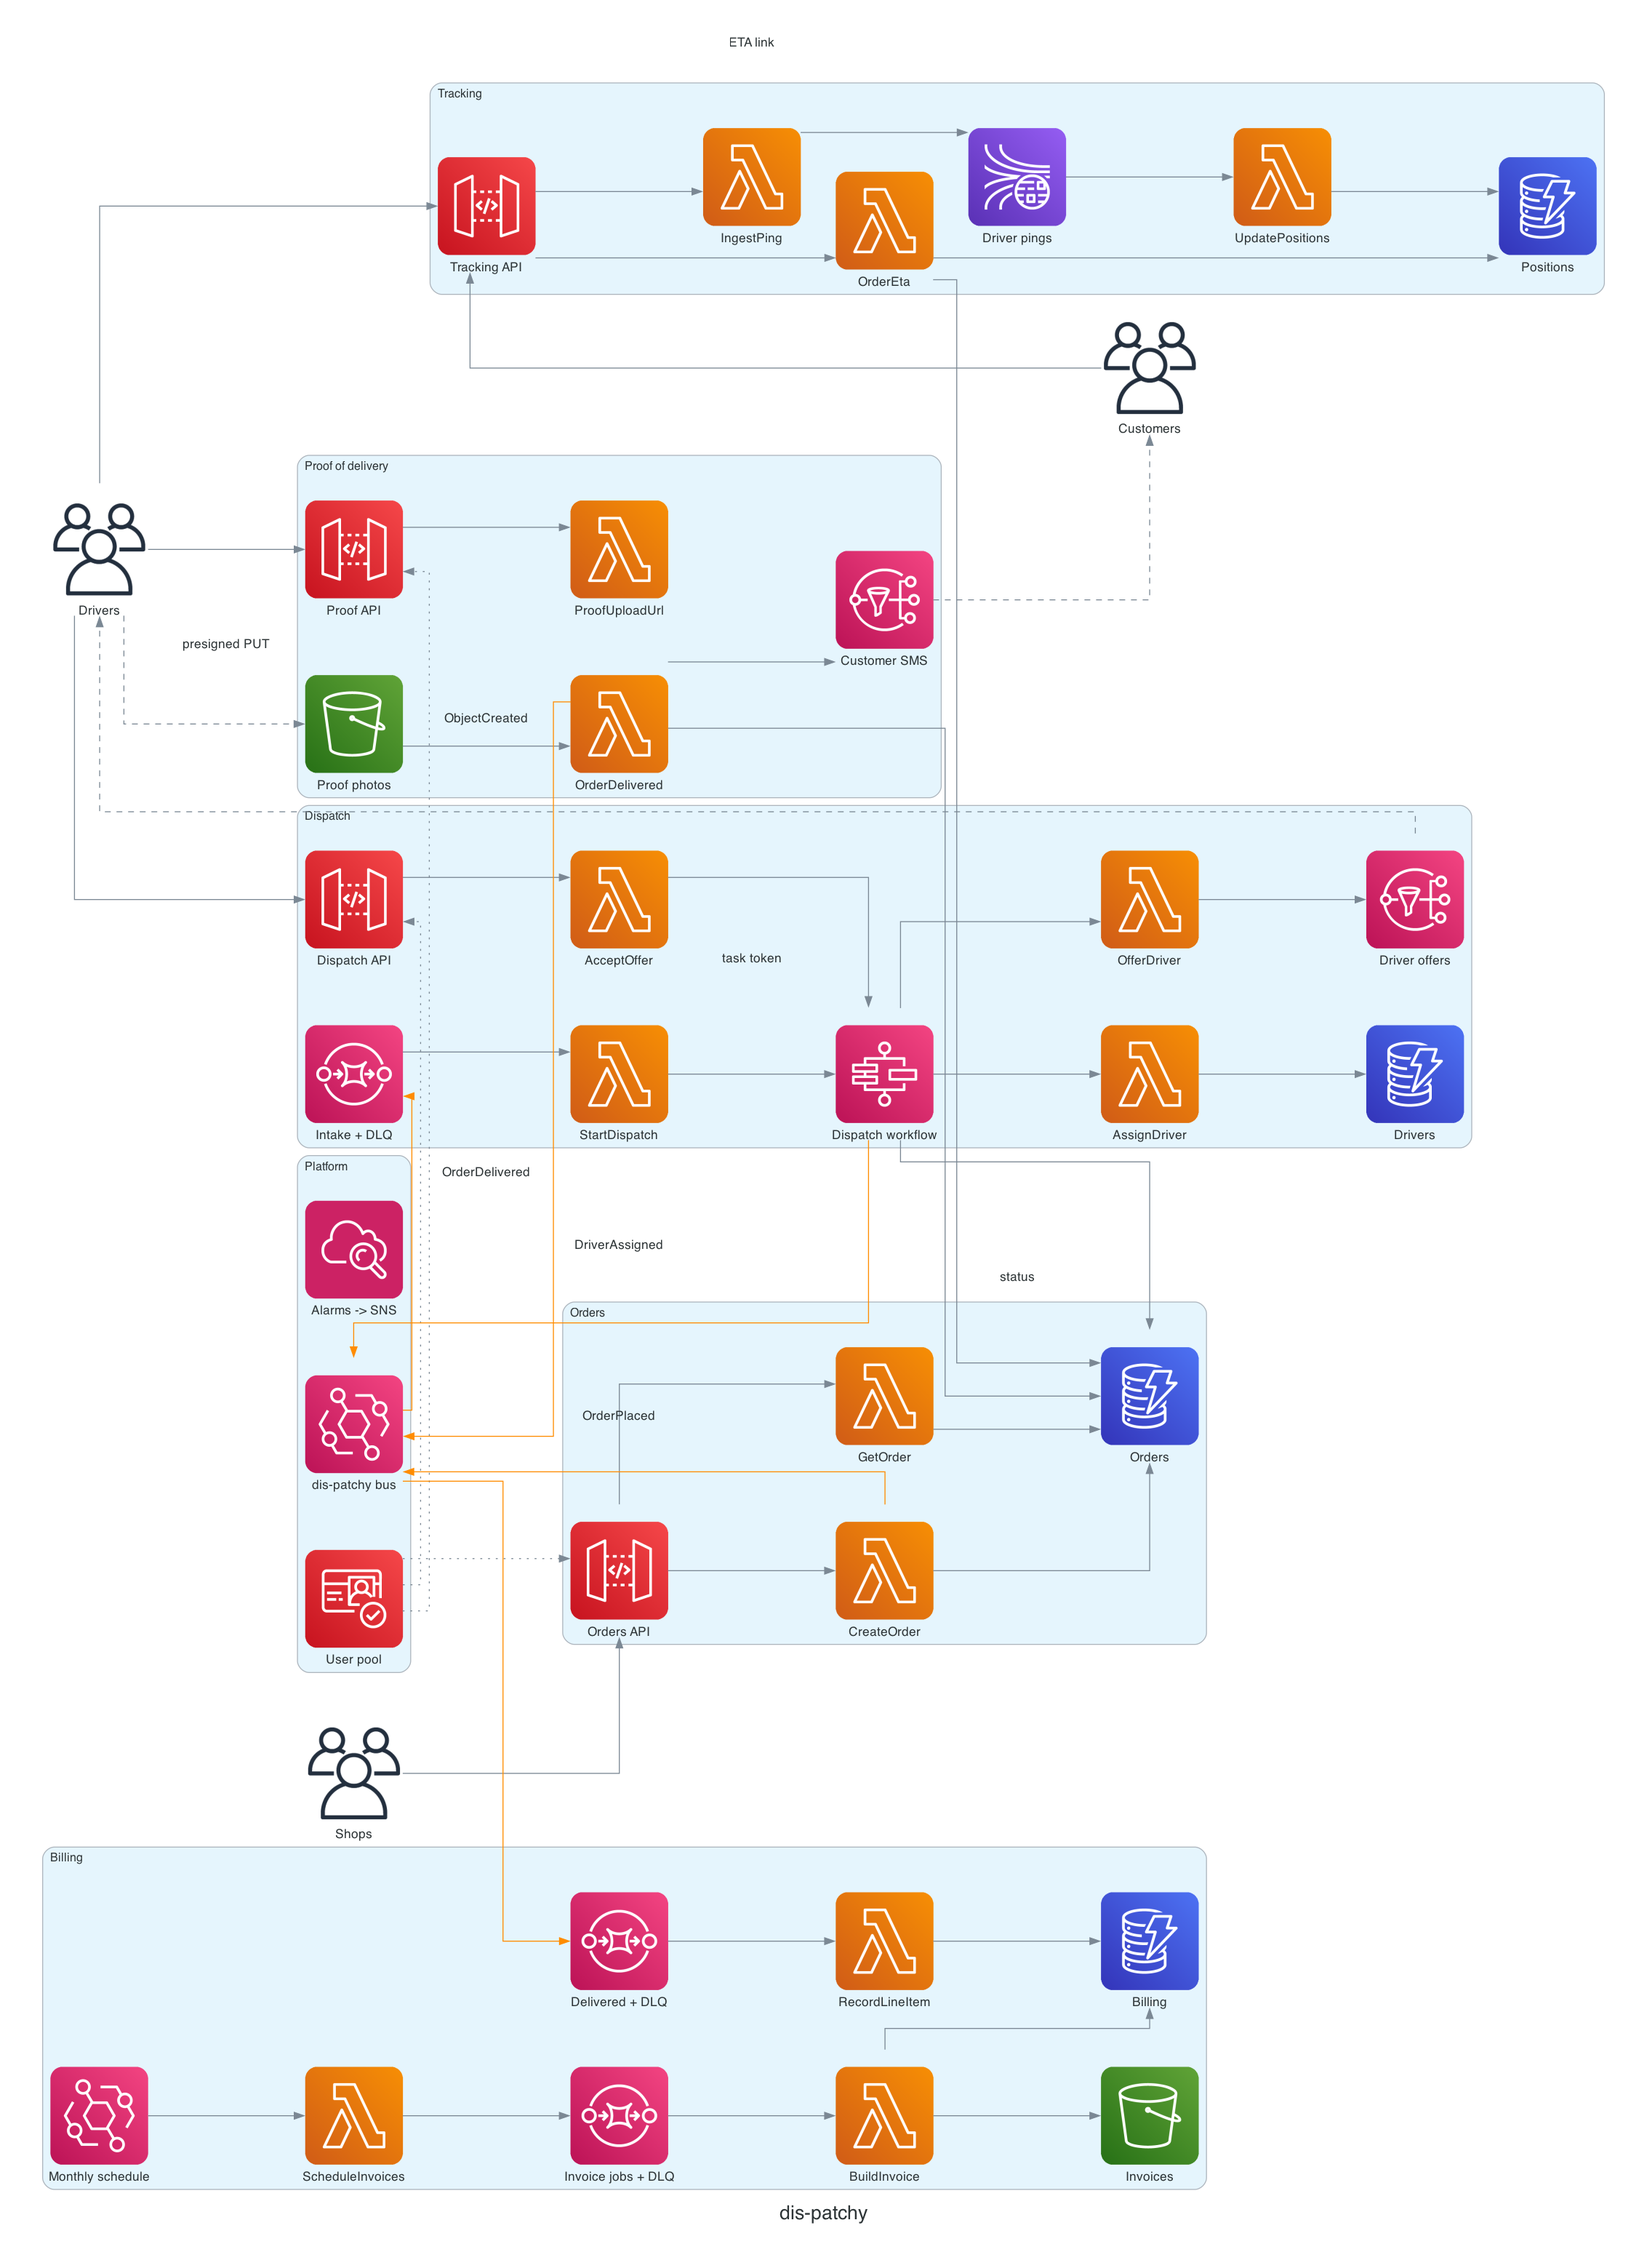
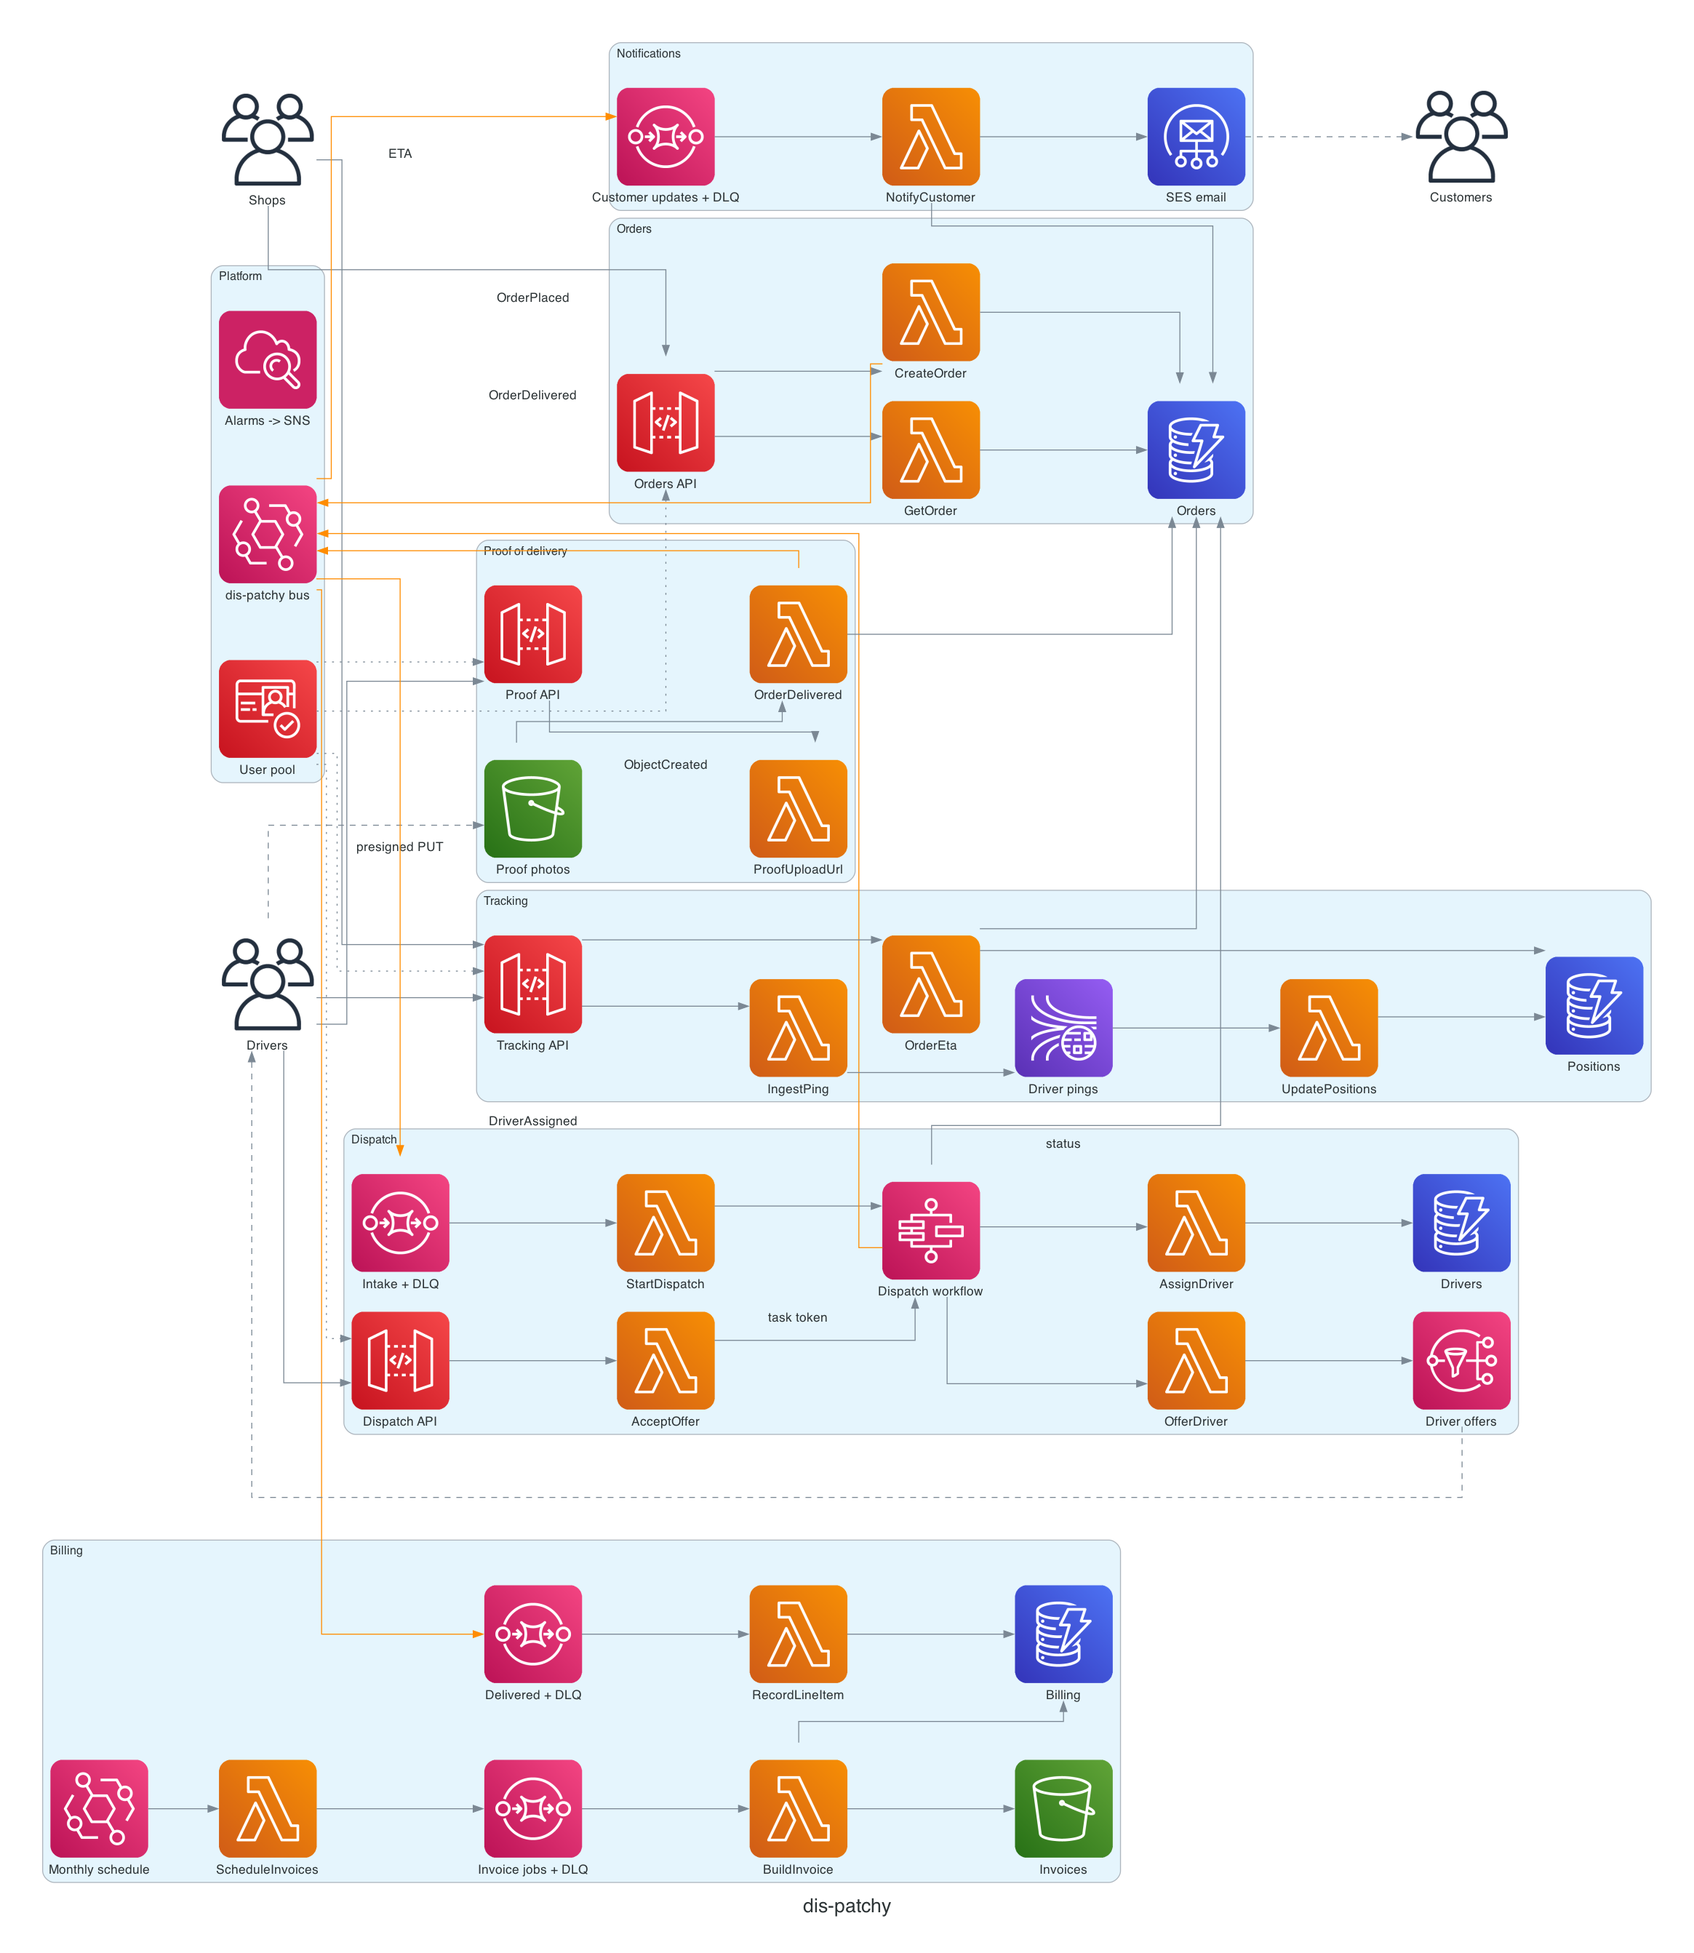
docs: update README and diagram for SES notifications

diff --git a/docs/architecture.py b/docs/architecture.py
@@ -8,6 +8,7 @@ from diagrams import Cluster, Diagram, Edge
 from diagrams.aws.analytics import KinesisDataStreams
 from diagrams.aws.compute import Lambda
 from diagrams.aws.database import Dynamodb
+from diagrams.aws.engagement import SimpleEmailServiceSes
 from diagrams.aws.integration import (
     Eventbridge,
     SimpleNotificationServiceSns,
@@ -76,9 +77,14 @@ with Diagram(
         upload = Lambda("ProofUploadUrl")
         photos = SimpleStorageServiceS3("Proof photos")
         delivered = Lambda("OrderDelivered")
-        sms = SimpleNotificationServiceSns("Customer SMS")
         proof_api >> upload
-        photos >> Edge(label="ObjectCreated") >> delivered >> sms
+        photos >> Edge(label="ObjectCreated") >> delivered
+
+    with Cluster("Notifications"):
+        updates_q = SimpleQueueServiceSqs("Customer updates + DLQ")
+        notifier = Lambda("NotifyCustomer")
+        ses = SimpleEmailServiceSes("SES email")
+        updates_q >> notifier >> ses
 
     with Cluster("Billing"):
         delivered_q = SimpleQueueServiceSqs("Delivered + DLQ")
@@ -95,15 +101,20 @@ with Diagram(
     shops >> orders_api
     (drivers >> Edge() >> [tracking_api, dispatch_api, proof_api])
     drivers >> Edge(style="dashed", label="presigned PUT") >> photos
-    customers >> Edge(label="ETA link") >> tracking_api
+    shops >> Edge(label="ETA") >> tracking_api
     offers_topic >> Edge(style="dashed") >> drivers
-    sms >> Edge(style="dashed") >> customers
-    cognito >> Edge(style="dotted") >> [orders_api, dispatch_api, proof_api]
+    ses >> Edge(style="dashed") >> customers
+    (
+        cognito
+        >> Edge(style="dotted")
+        >> [orders_api, dispatch_api, proof_api, tracking_api]
+    )
 
     create >> Edge(label="OrderPlaced", color="darkorange") >> bus
     workflow >> Edge(label="DriverAssigned", color="darkorange") >> bus
     delivered >> Edge(label="OrderDelivered", color="darkorange") >> bus
-    bus >> Edge(color="darkorange") >> [intake, delivered_q]
+    bus >> Edge(color="darkorange") >> [intake, delivered_q, updates_q]
     workflow >> Edge(label="status") >> orders_table
     eta >> orders_table
     delivered >> orders_table
+    notifier >> orders_table

diff --git a/README.md b/README.md
@@ -2,13 +2,20 @@
 
 A last-mile delivery dispatch platform on AWS, written entirely in Go: AWS CDK for the infrastructure, Go Lambdas for the services.
 
-Shops place delivery orders. The platform assigns a driver, tracks the driver live, collects a proof-of-delivery photo, texts the customer and invoices each shop monthly.
+Shops place delivery orders. The platform assigns a driver, tracks the driver live, collects a proof-of-delivery photo, emails the customer and invoices each shop monthly.
 
 ## Purpose
 
-dis-patchy is a **review target**. It exists so code-review tools, linters and AI reviewers have a realistic, multi-service codebase to find problems in. It looks and builds like a real product, and it contains deliberately planted defects, from missing infrastructure safeguards to subtle Go bugs. As the name suggests, it is a little patchy.
+dis-patchy is a **review target**. It exists so code-review tools, linters and AI reviewers have a realistic, multi-service codebase to find problems in. It looks and builds like a real product, and it contains deliberately planted defects. As the name suggests, it is a little patchy.
 
-> **Do not run this in production.** The defects are real. If you deploy it, deploy it into a sandbox account and tear it down afterwards.
+The planted defects are bugs and gaps in event handling, reliability and correctness. They are **not security holes**:
+
+- Every API method requires a Cognito token and checks ownership.
+- No bucket is public.
+- No secret appears in code or templates.
+- IAM uses scoped grants.
+
+That makes it safe to deploy into a sandbox account. It is still not production software.
 
 ## Architecture
 
@@ -19,19 +26,20 @@ One CDK stack per business area. The stacks talk through a shared EventBridge bu
 | Stack | What it does | Main services |
 |---|---|---|
 | `DisPatchy-Platform` | Identity, the event bus, the ops alarm topic | Cognito, EventBridge, SNS |
-| `DisPatchy-Orders` | Shops create and read orders; publishes `OrderPlaced` | API Gateway, Lambda, DynamoDB |
+| `DisPatchy-Orders` | Shops create and read their orders; publishes `OrderPlaced` | API Gateway, Lambda, DynamoDB, SSM |
 | `DisPatchy-Dispatch` | Claims a driver, offers the job, waits for acceptance | SQS, Step Functions (task token), SNS, DynamoDB |
-| `DisPatchy-Tracking` | Ingests driver location pings and serves customer ETAs | Kinesis, Lambda, DynamoDB (TTL) |
-| `DisPatchy-Proof` | Presigned photo upload; a new photo closes the order and texts the customer | S3 event notifications, SNS SMS |
+| `DisPatchy-Tracking` | Ingests driver location pings and serves ETAs to shops | Kinesis, Lambda, DynamoDB (TTL) |
+| `DisPatchy-Proof` | The assigned driver uploads a photo; the upload closes the order | S3 presigned URLs and event notifications |
+| `DisPatchy-Notifications` | Emails the customer when a driver is assigned and when the order is delivered | EventBridge, SQS, SES |
 | `DisPatchy-Billing` | One line item per delivery, then a monthly CSV invoice per shop | EventBridge schedule, SQS, DynamoDB, S3 |
 
 An order moves through the system like this:
 
 1. A shop calls `POST /orders`. The order is geocoded, stored and announced as `OrderPlaced`.
 2. Dispatch picks up the event from its intake queue and starts one workflow execution per order.
-3. The workflow claims an available driver and pushes the offer. It then waits until the driver calls `POST /offers/accept`, marks the order `ASSIGNED` and publishes `DriverAssigned`.
-4. While driving, the driver app posts location pings to `POST /pings`. Customers poll `GET /orders/{id}/eta`.
-5. At the door, the driver requests a presigned URL and uploads the photo. The upload marks the order `DELIVERED`, publishes `OrderDelivered` and texts the customer.
+3. The workflow claims an available driver and pushes the offer. It then waits until the driver calls `POST /offers/accept`, marks the order `ASSIGNED` and publishes `DriverAssigned`. Notifications emails the customer.
+4. While driving, the driver app posts location pings to `POST /pings`. The shop polls `GET /orders/{id}/eta` to show progress on its own site.
+5. At the door, the driver requests a presigned URL and uploads the photo. The upload marks the order `DELIVERED` and publishes `OrderDelivered`. Notifications emails the customer again.
 6. Billing records a line item per delivered order. At 02:00 UTC on the 1st of each month it builds every shop's invoice.
 
 ### Layout
@@ -60,26 +68,32 @@ docs/architecture.py    diagram source (renders docs/architecture.png)
 go build ./... && go vet ./... && go test ./...
 npx aws-cdk@2 synth
 
-# 2. Bootstrap the account/region once
+# 2. Create the geocoder key (SecureString can't be created by CloudFormation)
+aws ssm put-parameter --name /dis-patchy/geocoder-api-key --type SecureString --value "<your key>"
+
+# 3. Bootstrap the account/region once
 npx aws-cdk@2 bootstrap
 
-# 3. Review, then deploy all six stacks (~10 minutes)
-npx aws-cdk@2 diff
-npx aws-cdk@2 deploy --all
+# 4. Review, then deploy all seven stacks (~10 minutes)
+npx aws-cdk@2 diff -c senderEmail=you@example.com
+npx aws-cdk@2 deploy --all -c senderEmail=you@example.com
 ```
 
 ### After deploying
 
-1. **Subscribe to alarms:** add your email to the `DisPatchy-Platform` alarms SNS topic.
-2. **Create users:** create users in the Cognito user pool. Shops need the `custom:shop_id` attribute and the `shops` group. Drivers need the `drivers` group.
-3. **Seed drivers:** add driver records to the `Drivers` table with `pk = DRIVER#<cognito sub>`, `sk = PROFILE`, `gsi1pk = STATUS#AVAILABLE` and `gsi1sk = <cognito sub>`. Driver onboarding is out of scope.
-4. **Point at a real geocoder:** `CreateOrder` is configured with a placeholder URL. Until you change it, order creation returns `422`.
-5. **Leave the SMS sandbox:** new accounts can only text verified numbers. Verify a test number, or request production SMS access.
+1. **Verify the sender:** SES emails the `senderEmail` address a verification link. Click it.
+2. **Verify recipients:** new accounts are in the SES sandbox, so every customer email address must also be a verified identity. That's fine for testing.
+3. **Subscribe to alarms:** add your email to the `DisPatchy-Platform` alarms SNS topic.
+4. **Create users:** create users in the Cognito user pool. Shops need the `custom:shop_id` attribute and the `shops` group. Drivers need the `drivers` group.
+5. **Seed drivers:** add driver records to the `Drivers` table with `pk = DRIVER#<cognito sub>`, `sk = PROFILE`, `gsi1pk = STATUS#AVAILABLE` and `gsi1sk = <cognito sub>`. Driver onboarding is out of scope.
+
+`CreateOrder` calls a placeholder geocoder URL. Until you point it at a real geocoder, order creation returns `422`.
 
 ### Tearing down
 
 ```sh
-npx aws-cdk@2 destroy --all
+npx aws-cdk@2 destroy --all -c senderEmail=you@example.com
+aws ssm delete-parameter --name /dis-patchy/geocoder-api-key
 ```
 
 The stateful resources are retained on purpose: the Cognito pool, the Orders, Drivers and Positions tables, and both photo and invoice buckets. Delete them by hand in the console once you're sure.
@@ -95,11 +109,11 @@ Almost everything is pay-per-request, so an idle deployment costs very little. T
 | Item | Cost |
 |---|---|
 | Kinesis, 1 provisioned shard | ~$11.00 |
-| CloudWatch alarms (16 × $0.10) | ~$1.60 |
+| CloudWatch alarms (18 × $0.10) | ~$1.80 |
 | DynamoDB, S3, logs and the EventBridge archive at near-zero storage | <$1.00 |
-| API Gateway, Lambda, Step Functions, SQS | $0 (no requests) |
+| API Gateway, Lambda, Step Functions, SQS, SES, SSM | $0 (no requests) |
 
-### Busy: about $60–70/month, plus SMS
+### Busy: about $65–75/month
 
 This assumes 1,000 deliveries a day (≈30k a month). Each delivery has ~30 minutes of driving with a ping every 10 seconds, which comes to ≈5.4M pings a month.
 
@@ -109,14 +123,14 @@ This assumes 1,000 deliveries a day (≈30k a month). Each delivery has ~30 minu
 | X-Ray tracing (active on every function) | ~$10–15 |
 | Kinesis (shard plus PUT units) | ~$11 |
 | Step Functions Standard (~8 transitions per order) | ~$6 |
+| SES (two emails per delivery, ≈60k) | ~$6 |
 | DynamoDB on-demand (mostly position writes) | ~$4 |
 | CloudWatch Logs ingestion | ~$3 |
 | Lambda (arm64, 256 MB) | ~$2.50 |
 | Alarms, EventBridge, SQS, S3 | ~$2 |
-| **Total before SMS** | **~$60–70** |
-| **SNS SMS, one text per delivery** | **~$240 in the US**. Several times that in the UK and EU, because per-message prices vary a lot by country. |
+| **Total** | **~$65–75** |
 
-At this volume, SMS is the biggest cost by far. After that, the cost is driven by ping volume: a shorter ping interval scales API Gateway, Lambda and DynamoDB linearly. If those costs matter, the first levers are HTTP API in place of REST API, and batching pings on the device.
+Cost is driven by ping volume: a shorter ping interval scales API Gateway, Lambda and DynamoDB linearly. If cost matters, the first levers are HTTP API in place of REST API, and batching pings on the device.
 
 ## Regenerating the diagram
 
